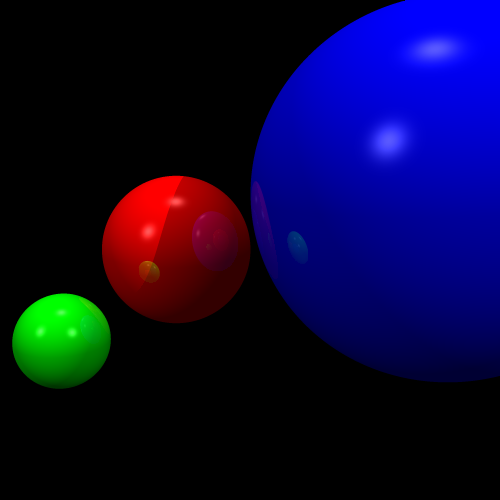
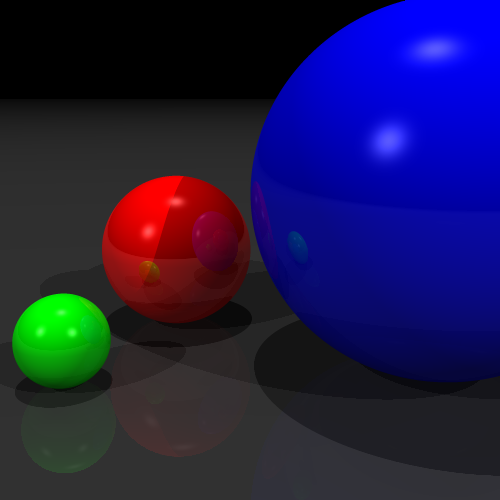
updates

diff --git a/implementation/mytracer.cpp b/implementation/mytracer.cpp
@@ -4,9 +4,59 @@
 // License: MIT (for this file only)
 
 #include <algorithm>
+#include "Plane.h"
 #include "Raytracer.h"
 #include "utils/vec3.h"
 #include "utils/Material.h"
+
+//-----------------------------------------------------------------------------
+/**
+ * @brief returns whether the incoming ray intersect the Plane
+ *
+ * @param ray: incoming ray
+ *        intersection point: point where ray reaches the plane
+ *        intersection_normal: normal at the intersection (normal of plane)
+ *        intersection_diffuse: diffuse term from the material of Plane
+ *        intersection_distance: distance from ray origin to intersection point
+ * @return
+ */
+bool Plane::intersect(const Ray& ray, vec3& intersection_point,
+                      vec3& intersection_normal, vec3& intersection_diffuse,
+                      double& intersection_distance) const
+{
+    intersection_diffuse = material_.diffuse;
+
+    /** \todo
+     * - compute the intersection of the plane with `ray`
+     * OK - if ray and plane are parallel there is no intersection
+     * OK - otherwise compute intersection data and store it in `intersection_point`, `intersection_normal`, and `intersection_distance`.
+     * OK - return whether there is an intersection for t>1e-5 (avoids "shadow acne").
+     */
+    // returns no intersection, if ray and plane are parallel.
+    const double epsilon = 1e-9;
+    const double cosTheta = dot(normal_, ray.direction_);
+    const bool isParallel = std::abs(cosTheta) < epsilon;
+    if (isParallel){
+        return false;
+    }
+
+    // compute intersection data
+    double distance = dot(normal_, center_);
+    double t = distance - (normal_[0]*ray.origin_[0] + normal_[1]*ray.origin_[1] + normal_[2]*ray.origin_[2]);
+    t /= (normal_[0]*ray.direction_[0] + normal_[1]*ray.direction_[1] + normal_[2]*ray.direction_[2]);
+
+    // and store it in reference parameters
+    // return whether there's an intersection for t>1e-5 to avoid shadow acne.
+    if (t > 1e-5){
+        intersection_point = ray(t);
+        intersection_distance = t;
+        intersection_normal = normal_;
+        return true;
+    }
+
+    return false;
+}
+//=============================================================================
 
 /**
  * @brief returns diffuse term
@@ -106,7 +156,7 @@ vec3 Raytracer::lighting(const vec3 &point, const vec3 &normal,
     double dot_rv = reflection(point, normal, view, light);
     double reflection_ = 1.0;
     // TODO: exponent could be optional here to control shininess
-    for (int i = 0; i < 20; i++){
+    for (int i = 0; i < 80; i++){
       reflection_ *= dot_rv;
     }
 

diff --git a/README.md b/README.md
@@ -15,7 +15,7 @@ This repo contains my own implementation files for the exercises of the course *
   - [x] Phong shading model (Ambient + Diffuse + Specular terms): *local* illumination
   - [x] Adding shadow term to Phong shading model
   - [x] Recursive ray-tracing for reflections: *global* illumination effect
-- [ ] Ray-plane intersection computation (`Plane::intersect()` in `Plane.cpp`).
+- [x] Ray-plane intersection computation (`Plane::intersect()` in `Plane.cpp`).
 - [ ] Ray Tracing with Triangular Meshes: Ray-triangle intersection computation (`Mesh::intersect_triangle()` in `Mesh.cpp`).
   - [ ] Computation of vertex normals (`Mesh::compute_normals` in `Mesh.cpp`) 
   - [ ] Computation of weighted vertex normals
